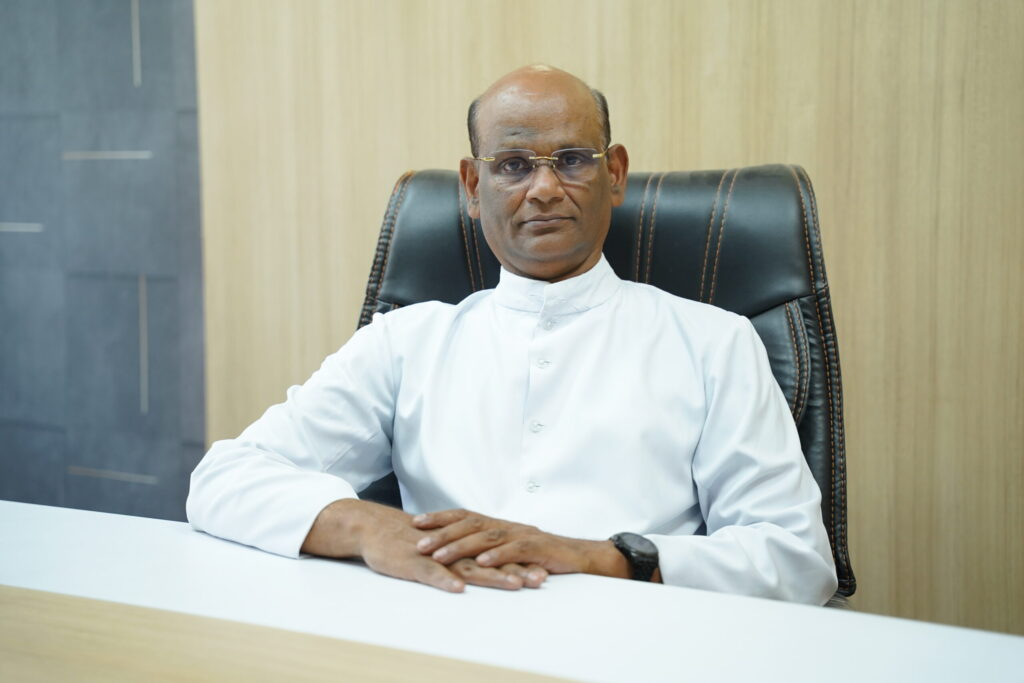
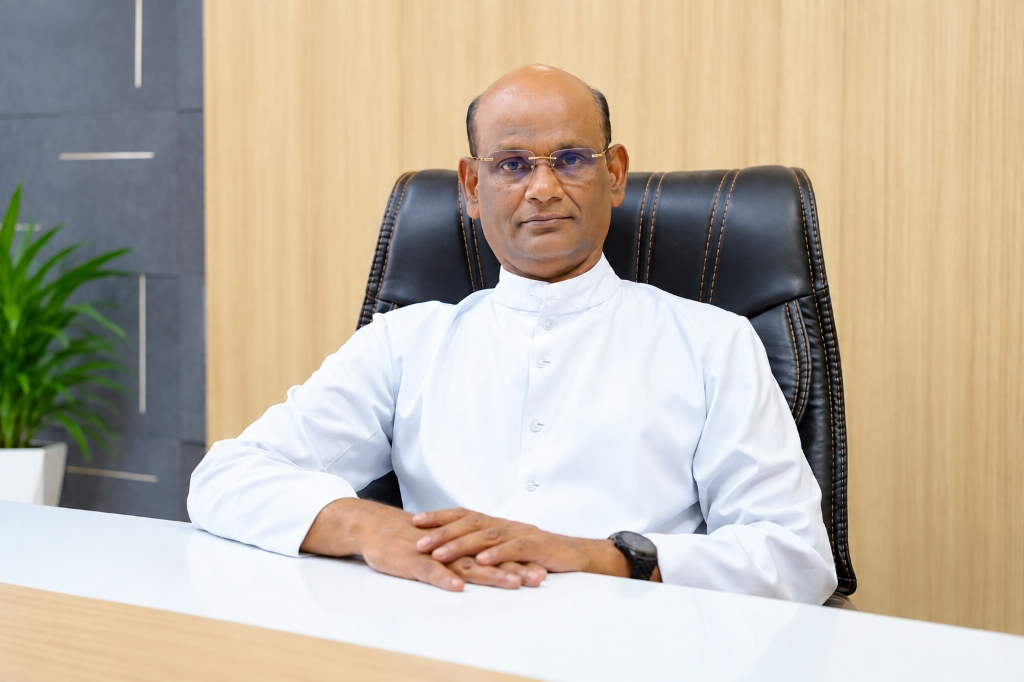
fix(leadership): swap portrait of Rev. Dr. Lourdu Prasad Joseph in administration section with high-res photo

diff --git a/src/pages/AboutPage.jsx b/src/pages/AboutPage.jsx
@@ -777,7 +777,7 @@ export default function AboutPage() {
                   person.id === 'president-mdes' || person.id === 'bishop-president' || person.name.toLowerCase().includes('francis')
                     ? '50% 12%'
                     : person.id === 'rector' || person.name.toLowerCase().includes('lourdu')
-                    ? '50% 12%'
+                    ? '50% 18%'
                     : person.id === 'principal' || person.name.toLowerCase().includes('ravi')
                     ? '50% 10%'
                     : person.id === 'finance-officer' || person.name.toLowerCase().includes('roshan')
